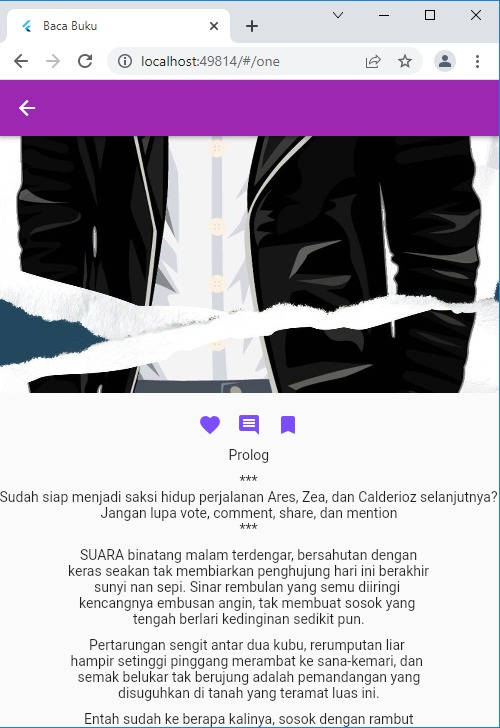
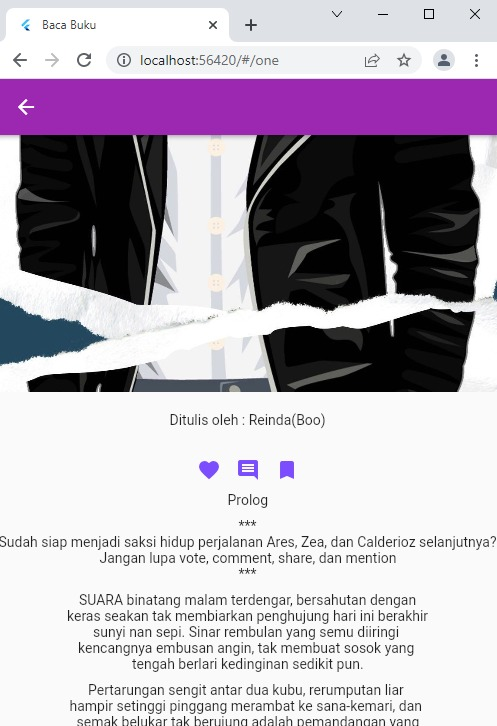
diupdate

diff --git a/lib/pages/satu.dart b/lib/pages/satu.dart
@@ -27,6 +27,10 @@ class Satu extends StatelessWidget {
             const Padding(
               padding: EdgeInsets.only(bottom: 20),
             ),
+            const Text('Ditulis oleh : Reinda(Boo)'),
+            const Padding(
+              padding: EdgeInsets.only(bottom: 30),
+            ),
             Row(
               mainAxisAlignment: MainAxisAlignment.center,
               children: [

diff --git a/lib/pages/tiga.dart b/lib/pages/tiga.dart
@@ -27,6 +27,10 @@ class Tiga extends StatelessWidget {
             const Padding(
               padding: EdgeInsets.only(bottom: 20),
             ),
+            const Text('Ditulis oleh : Reinda(Boo)'),
+            const Padding(
+              padding: EdgeInsets.only(bottom: 30),
+            ),
             Row(
               mainAxisAlignment: MainAxisAlignment.center,
               children: [

diff --git a/lib/pages/dua.dart b/lib/pages/dua.dart
@@ -24,6 +24,10 @@ class Dua extends StatelessWidget {
             const Padding(
               padding: EdgeInsets.only(bottom: 20),
             ),
+            const Text('Ditulis oleh : Reinda(Boo)'),
+            const Padding(
+              padding: EdgeInsets.only(bottom: 30),
+            ),
             Row(
               mainAxisAlignment: MainAxisAlignment.center,
               children: [
